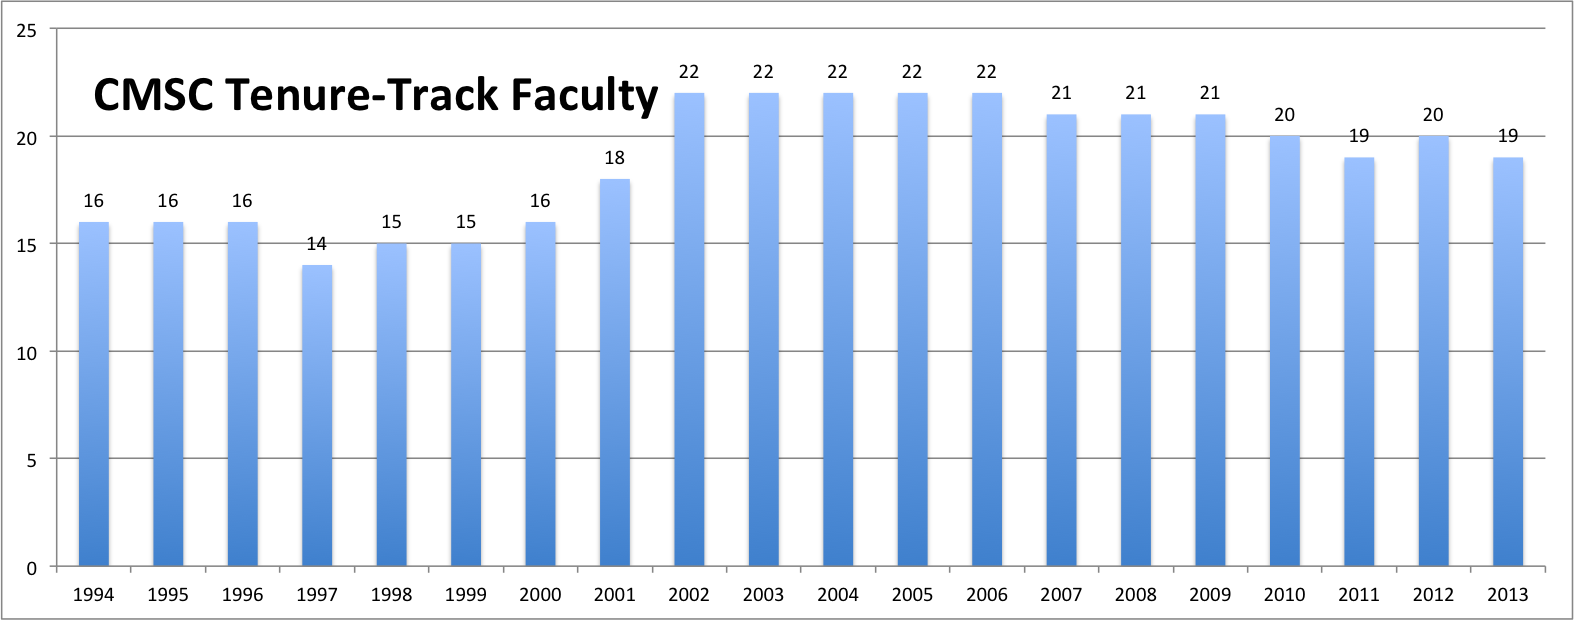
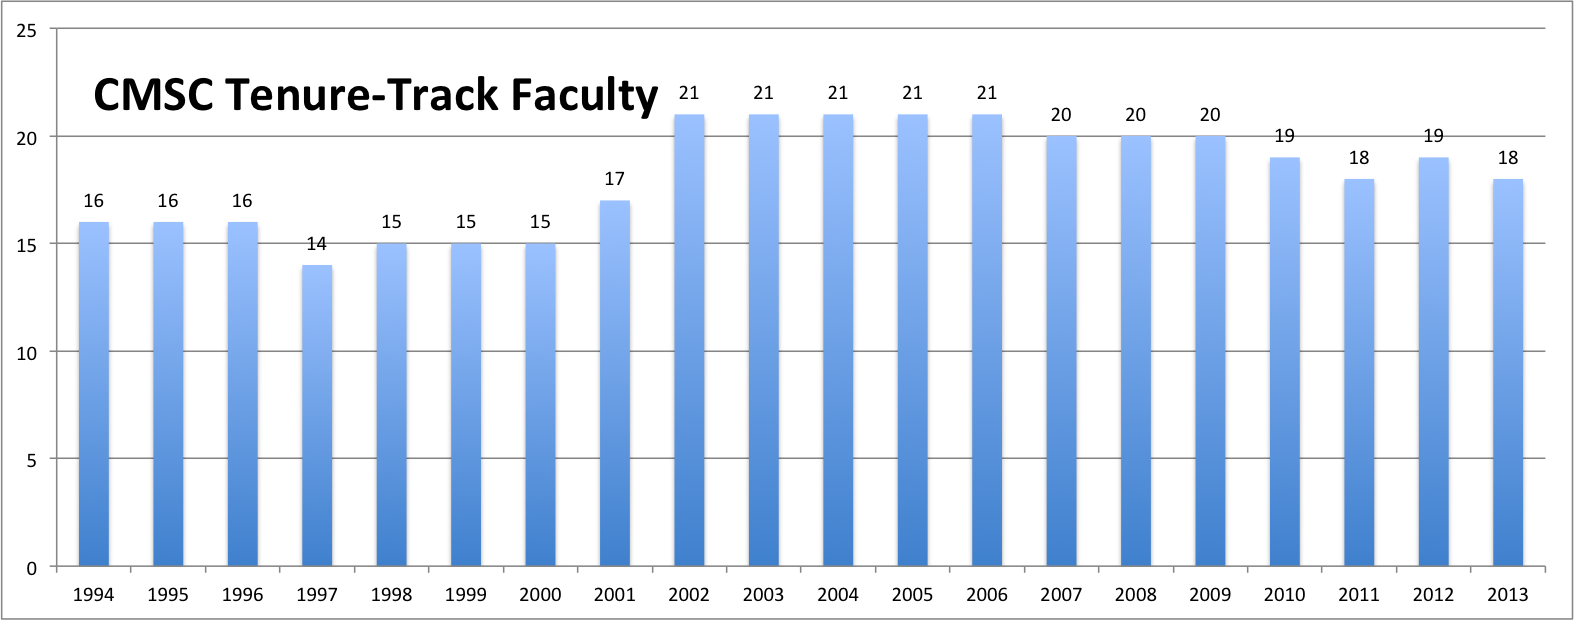
fixed error in data

diff --git a/faculty.py b/faculty.py
@@ -10,6 +10,9 @@ deltafile = 'changes.txt'
 cs_tt =  defaultdict(int)
 ece_tt =  defaultdict(int)
 
+cs_who = defaultdict(list)
+ece_who = defaultdict(list)
+
 cs_teaching =  defaultdict(int)
 ece_teaching =  defaultdict(int)
 
@@ -38,8 +41,10 @@ def load_data():
         for year in range(start, (last or year_max)+1):
             if prog == 'C':
                 cs_tt[year] += 1
+                cs_who[year].append('%s_%s' % (ln,fn))
             elif prog == 'E':
                 ece_tt[year] += 1
+                ece_who[year].append('%s_%s' % (ln,fn))
             else:
                 print 'Bad program value', line
 
@@ -78,7 +83,8 @@ def main():
     for y in years:
         out.write("%s: %s\n" % (y, ', '.join(sorted(delta[y]))))
     out.close()
-    graph_tt()
+    print sorted(cs_who[2013])
+    # graph_tt()
 
 if __name__ == '__main__':
     main()
